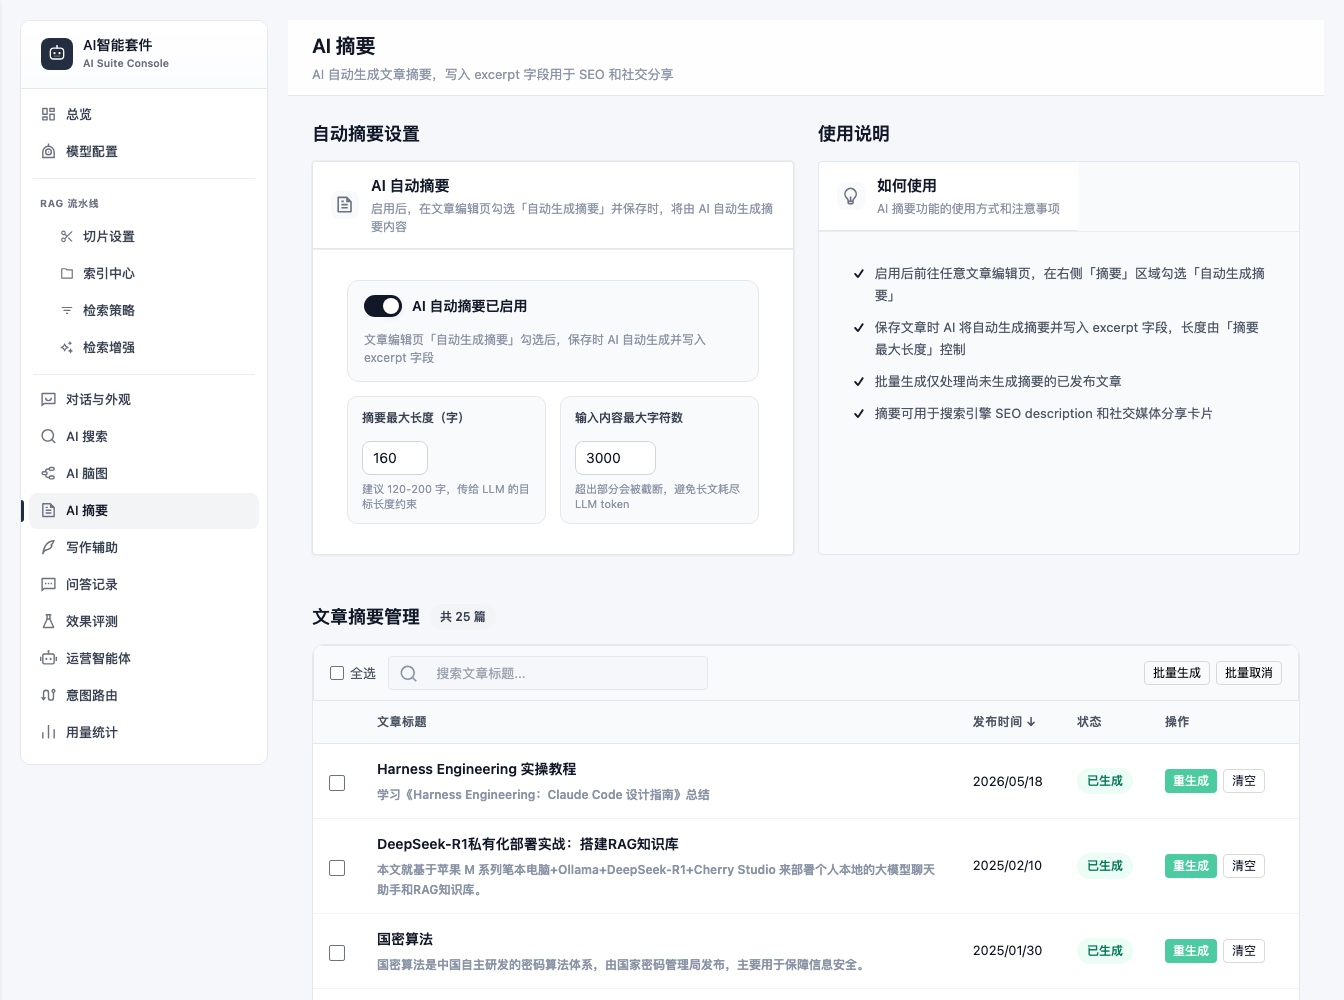
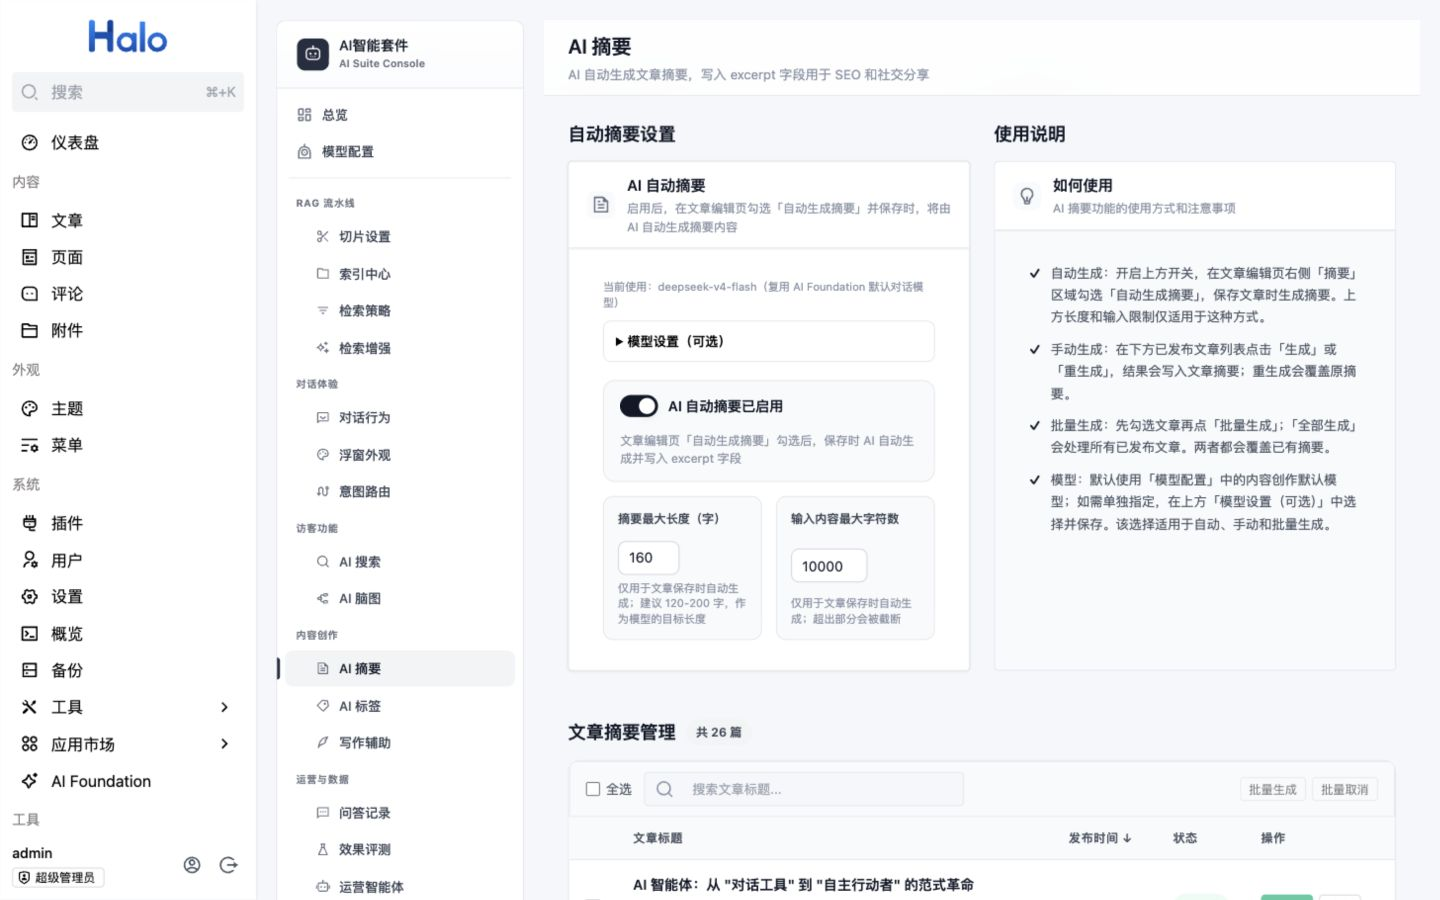
docs: refresh content creation screenshots

diff --git a/README.md b/README.md
@@ -69,7 +69,7 @@
 
 ## 实际界面
 
-以下截图来自 `dev.rainwu.cn` 测试环境，部分截图早于当前开发分支。站点内容、统计数字和界面细节会随数据与版本变化；AI 标签的最新操作步骤以[用户手册](docs/user-guide/ai-tags.md)为准。
+内容创作相关截图来自当前本地开发环境，其余部分截图来自较早版本的 `dev.rainwu.cn` 测试环境。站点内容、统计数字和界面细节会随数据与版本变化；AI 标签的操作步骤以[用户手册](docs/user-guide/ai-tags.md)为准。
 
 ### 访客端
 
@@ -114,10 +114,15 @@
 | [![对话与外观配置及实时预览](assets/readme/screenshots/console-chat.png)](assets/readme/screenshots/console-chat.png) | [![AI 脑图配置与管理页面](assets/readme/screenshots/console-mindmap.jpg)](assets/readme/screenshots/console-mindmap.jpg) |
 | 配置问答规则、快捷问题、访客浮窗并实时预览 | 设置生成参数、独立主题，并管理文章脑图 |
 
-| AI 摘要 | 写作辅助 |
+| AI 摘要 | AI 标签 |
 | --- | --- |
-| [![AI 摘要配置与文章管理](assets/readme/screenshots/console-excerpt.jpg)](assets/readme/screenshots/console-excerpt.jpg) | [![编辑器 AI 写作辅助配置页面](assets/readme/screenshots/console-writing.jpg)](assets/readme/screenshots/console-writing.jpg) |
-| 配置摘要生成参数并批量管理文章摘要 | 配置编辑器 AI 动作、写作模型与大纲生成 |
+| [![AI 摘要配置与文章管理](assets/readme/screenshots/console-excerpt.jpg)](assets/readme/screenshots/console-excerpt.jpg) | [![AI 标签配置与文章管理](assets/readme/screenshots/console-tags.jpg)](assets/readme/screenshots/console-tags.jpg) |
+| 配置摘要生成参数并批量管理文章摘要 | 为文章生成候选标签，确认后应用到文章 |
+
+| 写作辅助 | 内容创作默认模型 |
+| --- | --- |
+| [![编辑器 AI 写作辅助配置页面](assets/readme/screenshots/console-writing.jpg)](assets/readme/screenshots/console-writing.jpg) | [![内容创作默认模型配置](assets/readme/screenshots/console-models-content.jpg)](assets/readme/screenshots/console-models-content.jpg) |
+| 配置编辑器 AI 动作、写作模型与大纲生成 | 为 AI 摘要、AI 标签和写作辅助设置默认模型 |
 
 | 问答记录 | 用量统计 |
 | --- | --- |

diff --git a/docs/user-guide/models-and-retrieval.md b/docs/user-guide/models-and-retrieval.md
@@ -12,11 +12,13 @@
 | 页面 | 决定什么 | 典型变更影响 |
 | --- | --- | --- |
 | 模型配置 | AI Foundation 对话、内容创作、Embedding、Rerank、Query Rewrite 模型资源名 | Embedding 变化需重建索引；内容创作模型变化不需要 |
-
-当前开发分支的内容创作默认模型由 AI 摘要、AI 标签和写作辅助复用；三个功能也可分别指定模型。详见[配置参考](../reference/configuration-reference.md#模型配置-models)。这部分尚未包含在已发布的 0.4.1 JAR 中。
 | 切片设置 | 文章怎样拆成可检索片段 | 变化后需重建受影响文章 |
 | 检索策略 | keyword/vector/hybrid、候选数和阈值 | 保存后对新请求生效 |
 | 检索增强 | Rewrite、HyDE、Rerank、跨语言 | 增加效果、延迟和费用 |
+
+当前开发分支的内容创作默认模型由 AI 摘要、AI 标签和写作辅助复用；三个功能也可分别指定模型。详见[配置参考](../reference/configuration-reference.md#模型配置-models)。这部分尚未包含在已发布的 0.4.1 JAR 中。
+
+![内容创作默认模型](../../assets/readme/screenshots/console-models-content.jpg)
 
 ## 推荐的首次配置
 

diff --git a/docs/user-guide/ai-tags.md b/docs/user-guide/ai-tags.md
@@ -5,10 +5,14 @@
 
 AI 标签根据文章已保存的正文生成候选标签。生成阶段只给建议；选择并点击“应用到文章”后才会修改文章。
 
+![AI 标签配置与文章管理页](../../assets/readme/screenshots/console-tags.jpg)
+
 ## 从哪里使用
 
 - 在“AI 智能套件 → 内容创作 → AI 标签”中搜索文章、查看当前标签并生成建议。草稿和已发布文章均可使用。
 - 在 Halo 文章列表的单篇操作菜单中点击“AI 生成标签”，直接打开当前文章的弹窗。弹窗会自动开始生成，无需跳转到 AI 标签页面。
+
+![文章列表操作菜单中的“生成 AI 标签”入口](../../assets/readme/screenshots/console-post-tag-action.jpg)
 
 文章编辑页的标签下拉菜单中没有 AI 生成按钮。请先保存正文，再到上述任一入口操作；未保存的编辑器内容不会用于生成。
 

diff --git a/docs/index.md b/docs/index.md
@@ -4,7 +4,7 @@
 
 这里是 AI 智能套件的完整文档入口。根目录的 `README.md` 用于介绍产品和帮助第一次安装；本目录负责操作手册、生产运维、系统架构、API 和二次开发。
 
-> 当前开发分支新增了 AI 标签和内容创作模型配置。部分界面截图摄于这些改动之前，侧栏和模型字段可能与本地开发界面不同；功能与操作步骤以对应手册正文为准。发布新版文档前需重新采集相关截图。
+> 当前开发分支新增了 AI 标签和内容创作模型配置。相关内容创作页面截图已更新；其他页面的部分截图摄于较早版本，界面细节可能与本地开发界面不同。功能与操作步骤以对应手册正文为准。
 
 [![AI 智能套件系统架构](../assets/readme/system-architecture.svg)](/readme/system-architecture.svg)
 
